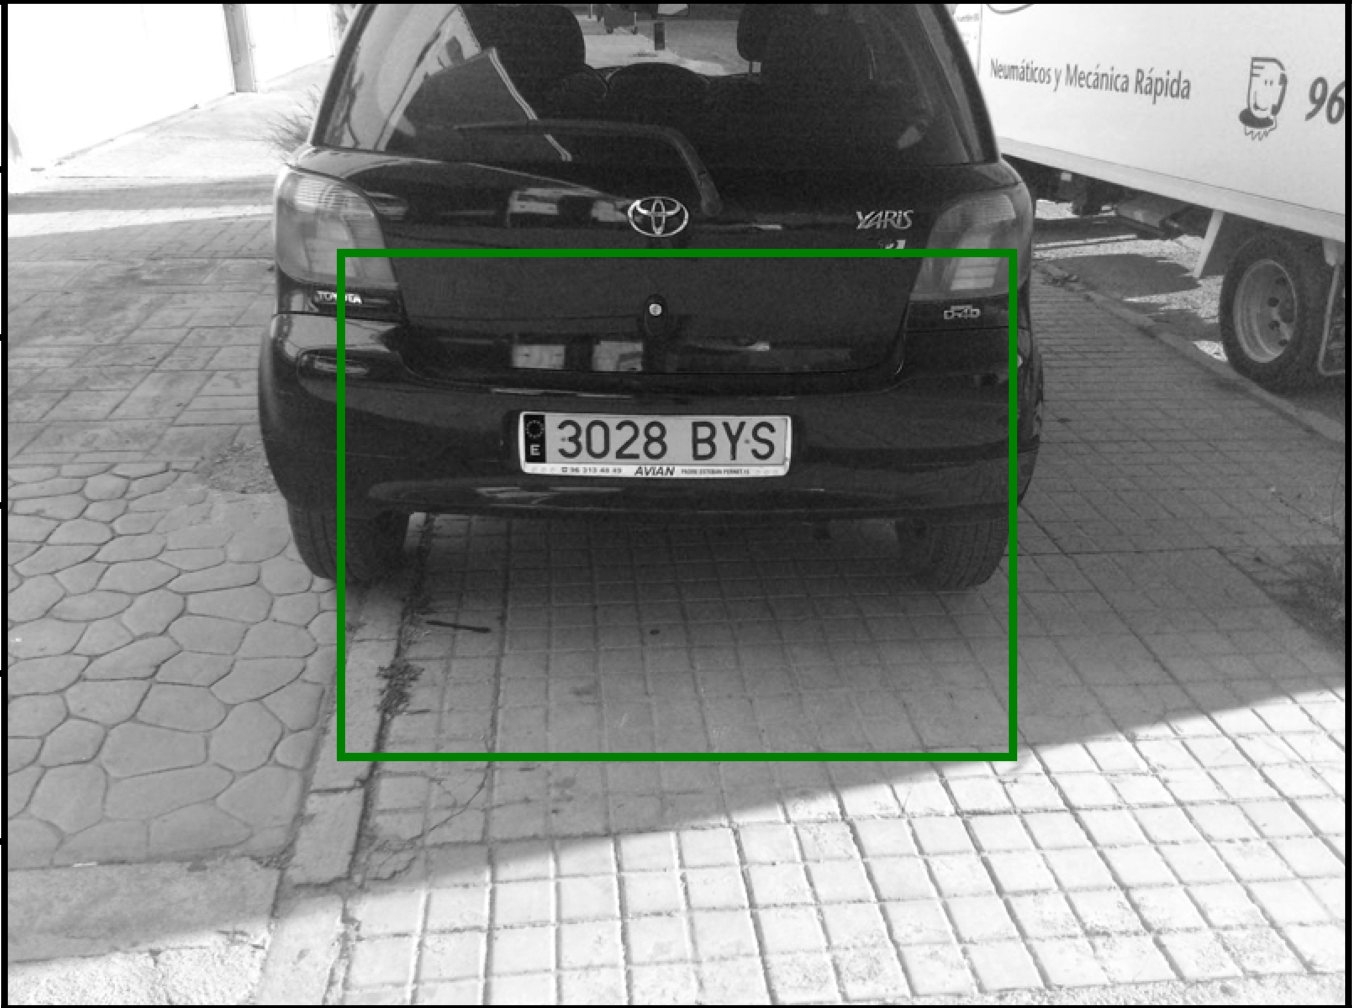
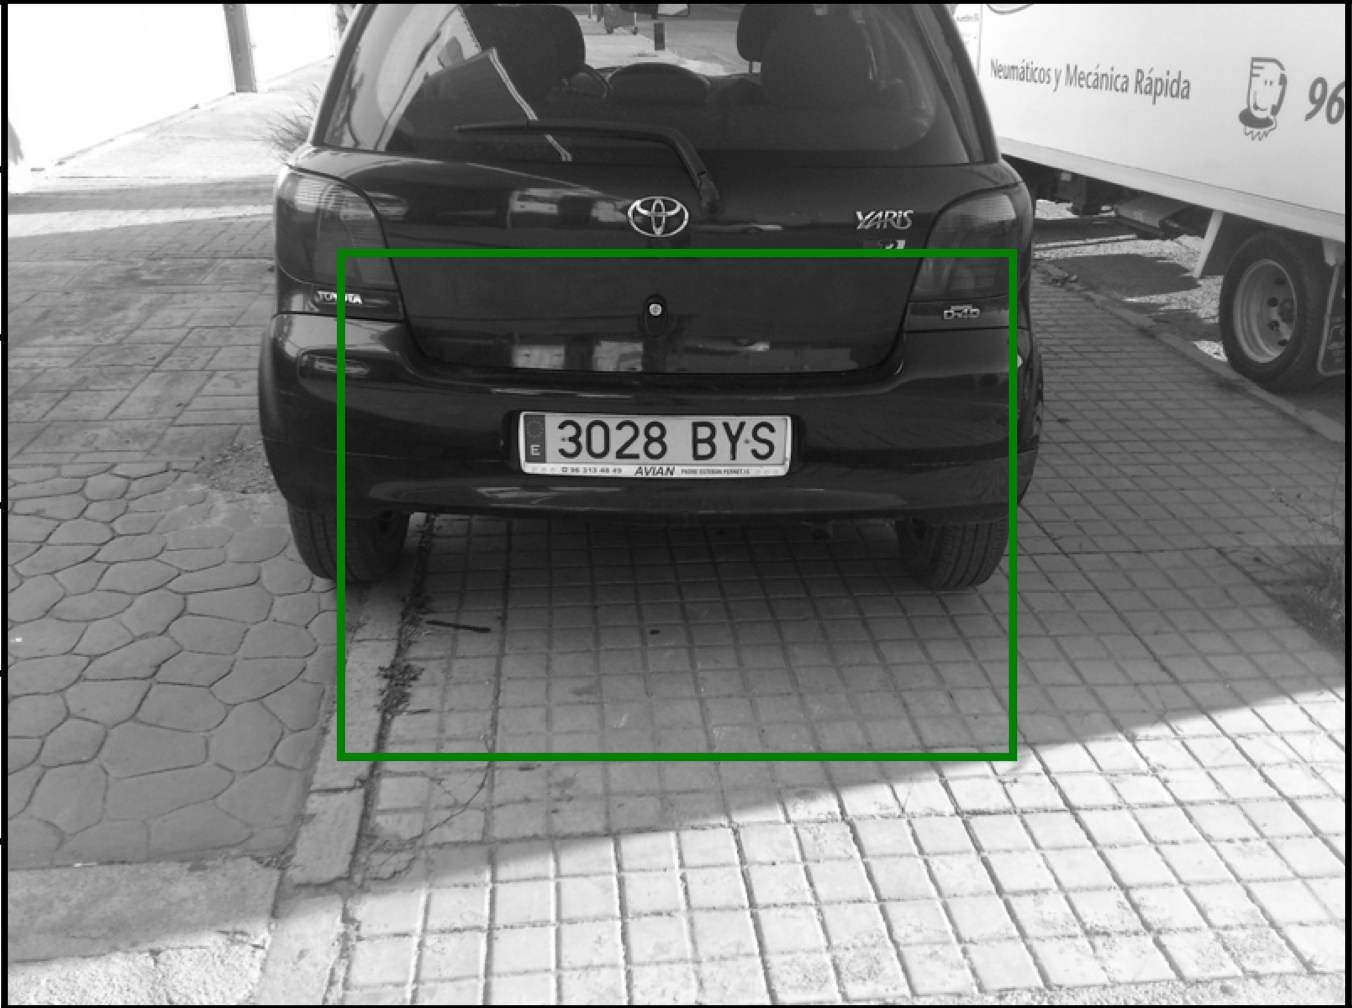
convert RGB data to greyscale and stretch the values to lie between 0 and 255

diff --git a/CS373LicensePlateDetection.py b/CS373LicensePlateDetection.py
@@ -359,7 +359,7 @@ def main():
     SHOW_DEBUG_FIGURES = True
 
     # this is the default input image filename
-    input_filename = "numberplate1.png"
+    input_filename = "numberplate5.png"
 
     if command_line_arguments != []:
         input_filename = command_line_arguments[0]
@@ -378,7 +378,6 @@ def main():
     # we read in the png file, and receive three pixel arrays for red, green and blue components, respectively
     # each pixel array contains 8 bit integer values between 0 and 255 encoding the color values
     (image_width, image_height, px_array_r, px_array_g, px_array_b) = readRGBImageToSeparatePixelArrays(input_filename)
-
     # setup the plots for intermediate results in a figure
     fig1, axs1 = pyplot.subplots(2, 2)
     axs1[0, 0].set_title('Input red channel of image')
@@ -391,7 +390,9 @@ def main():
 
     # STUDENT IMPLEMENTATION here
 
-    px_array = px_array_r
+    greyscale_pixel_array = computeRGBToGreyscale(px_array_r, px_array_g, px_array_b, image_width, image_height)
+    contrast_stretched_pixel_array = scaleTo0And255AndQuantize(greyscale_pixel_array, image_width, image_height)
+    px_array = contrast_stretched_pixel_array
 
     # compute a dummy bounding box centered in the middle of the input image, and with as size of half of width and height
     center_x = image_width / 2.0
@@ -407,7 +408,7 @@ def main():
 
     # Draw a bounding box as a rectangle into the input image
     axs1[1, 1].set_title('Final image of detection')
-    axs1[1, 1].imshow(px_array, cmap='gray')
+    axs1[1, 1].imshow(px_array,cmap='gray')
     rect = Rectangle((bbox_min_x, bbox_min_y), bbox_max_x - bbox_min_x, bbox_max_y - bbox_min_y, linewidth=1,
                      edgecolor='g', facecolor='none')
     axs1[1, 1].add_patch(rect)
@@ -417,6 +418,7 @@ def main():
     # write the output image into output_filename, using the matplotlib savefig method
     extent = axs1[1, 1].get_window_extent().transformed(fig1.dpi_scale_trans.inverted())
     pyplot.savefig(output_filename, bbox_inches=extent, dpi=600)
+
 
     if SHOW_DEBUG_FIGURES:
         # plot the current figure
